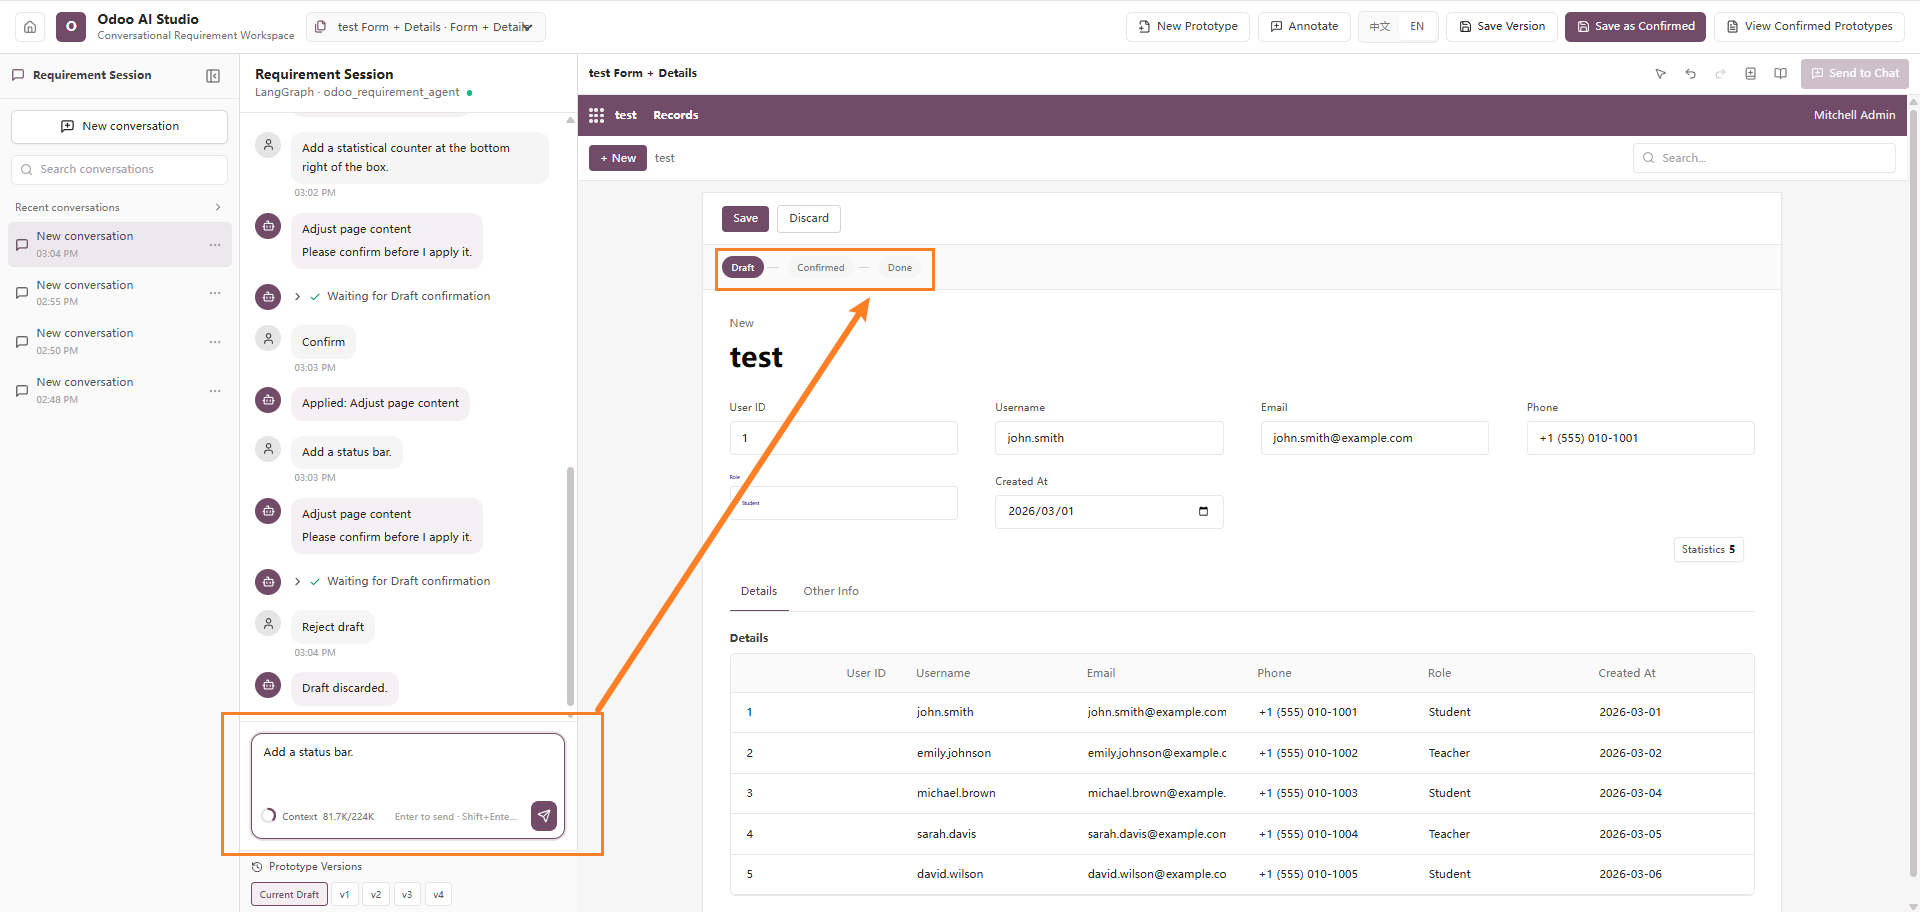
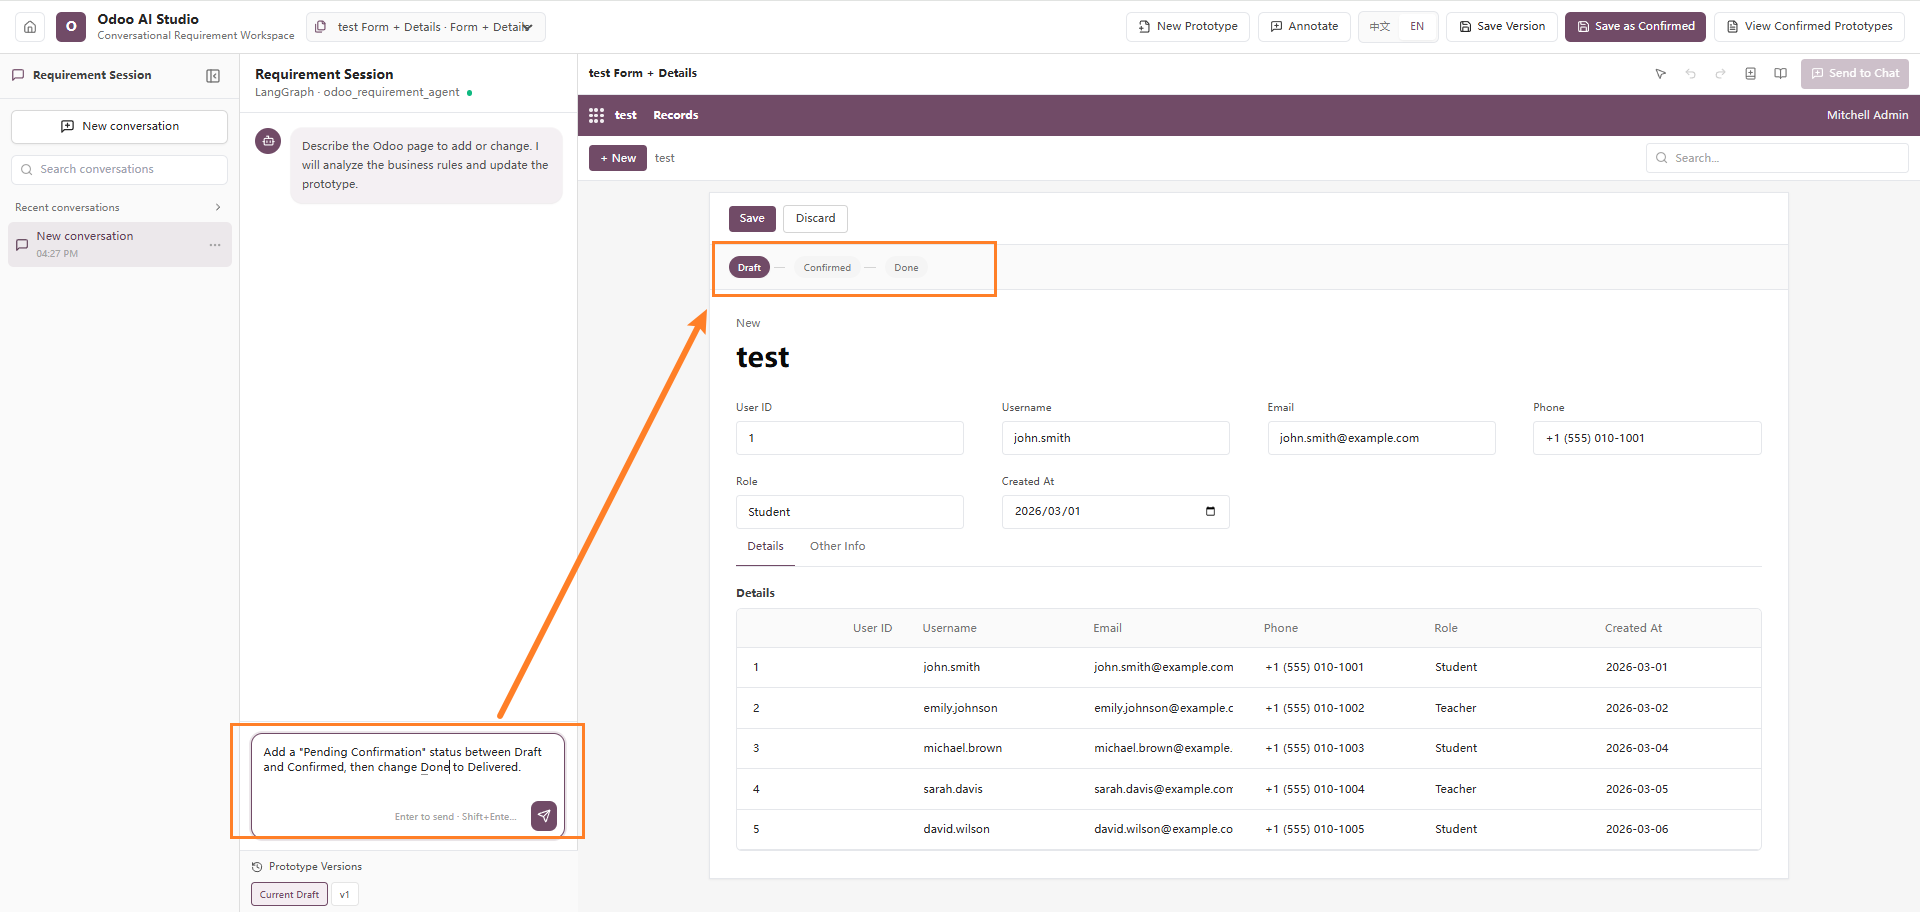
Supplementary Function Description

diff --git a/Chat.md b/Chat.md
@@ -160,7 +160,7 @@ The status bar remains in a fixed position and does not interfere with the main 
 
 ### Example Prompt
 
-> Add a status bar at the top of the page.
+> Add a "Pending Confirmation" status between Draft and Confirmed, then change Done to Delivered..
 
 ### Screenshots
 
@@ -224,8 +224,41 @@ The modification affects only the visual appearance of the column. It does not c
 
 ![demo15](https://openerp-hk-t.github.io/odoo-tool/images/detail_role_column_red.png)
 
+## 12. Rename a Field in a Detail Table
 
+### Description
 
+Rename a field in a detail table and update its displayed content. For example, change the **Role** field to **Identity** so that the field name better matches the current business semantics.
+
+This modification updates the field label, column header, and related display locations together, while keeping the column order, data type, and table structure unchanged.
+
+### Example Prompt
+
+> Rename the **Role** field in the **Detail** table to **Identity**.
+
+### Screenshot
+
+![demo16](https://openerp-hk-t.github.io/odoo-tool/images/detail_role_to_identity_1.png)
+
+![demo17](https://openerp-hk-t.github.io/odoo-tool/images/detail_role_to_identity_2.png)
+
+## 13. Change the Header Color of a Column
+
+### Description
+
+Change the color of a column header in a detail table, for example changing the **Identity** column header to green to highlight the column or mark a specific business status.
+
+This modification affects only the header color. It does not change the header text, field values, column width, or the overall table structure.
+
+### Example Prompt
+
+> Change the header color of the **Identity** column in the **Detail** table to green.
+
+### Screenshot
+
+![demo18](https://openerp-hk-t.github.io/odoo-tool/images/identity_header_green_1.png)
+
+![demo19](https://openerp-hk-t.github.io/odoo-tool/images/identity_header_green_2.png)
 
 ## Tips for Writing Effective Prompts
 
